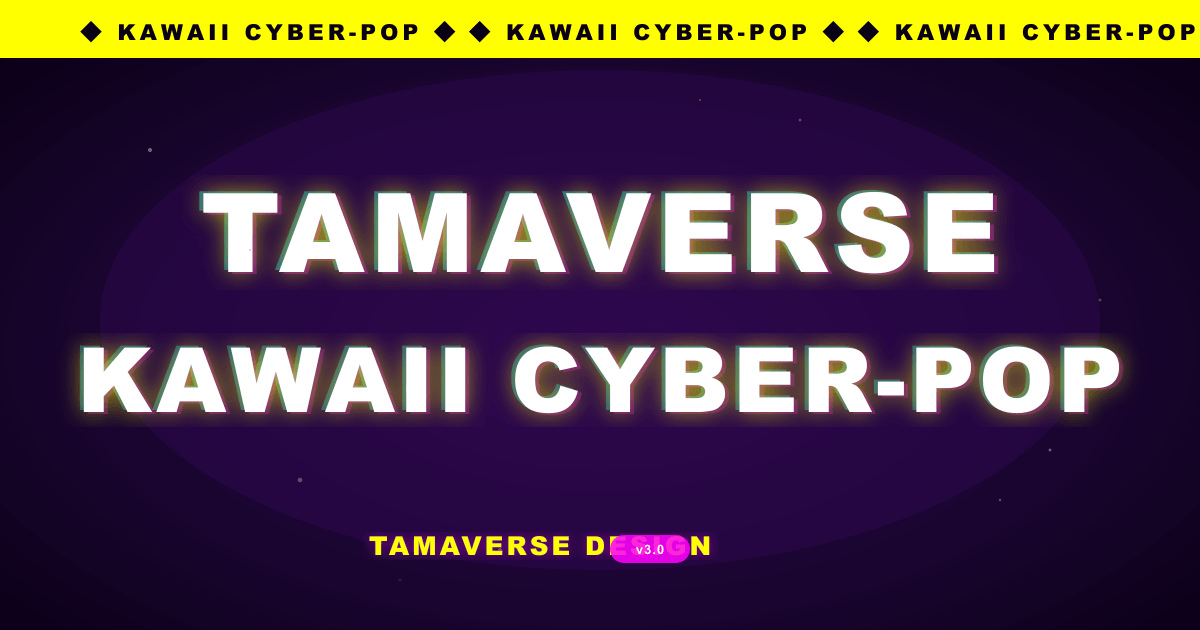
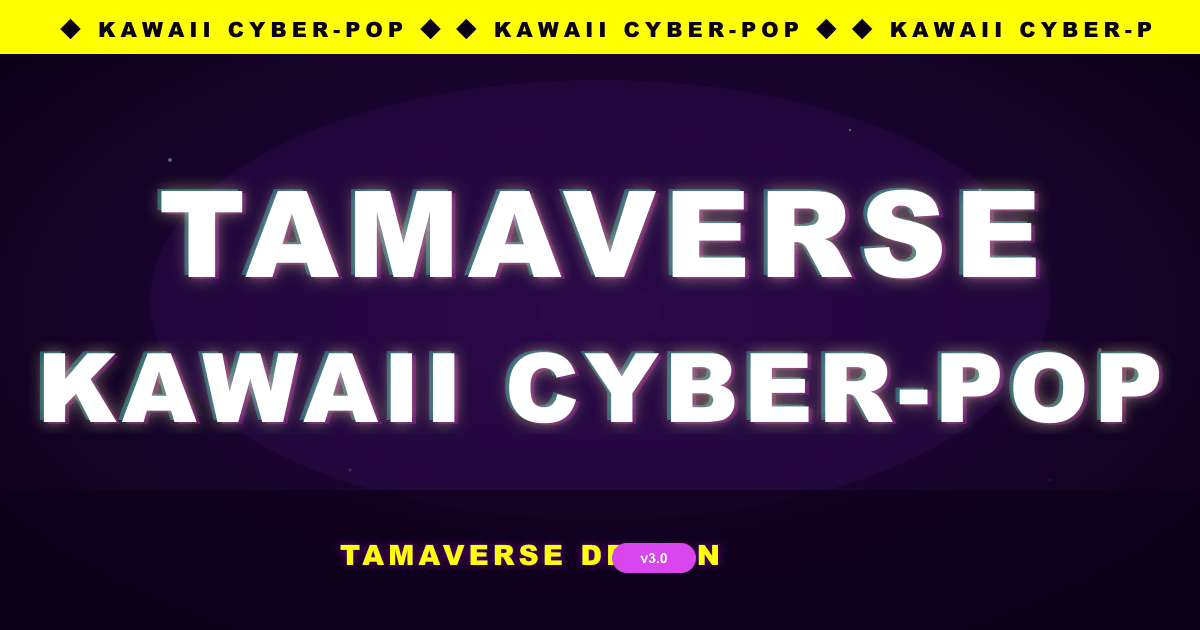
Rename KAWAII to shorter URL, update OG image and links
- tamaverse-kawaii-cyberpop-design-system.html → tamaverse-kawaii-cyberpop.html
- index.html: updated link to new filename
- og:url updated to match new URL
- OG image refined: darker bottom strip, larger title, tighter glow
- Added .gitignore for build scripts and .vercel

diff --git a/tamaverse-kawaii-cyberpop.html b/tamaverse-kawaii-cyberpop.html
@@ -8,7 +8,7 @@
 <meta name="keywords" content="Tamaverse, Kawaii, Cyber-Pop, Design System, Neon, Glassmorphism">
 <meta name="author" content="Tamaverse">
 <meta property="og:type" content="website">
-<meta property="og:url" content="https://tamaverse-design.vercel.app/tamaverse-kawaii-cyberpop-design-system.html">
+<meta property="og:url" content="https://tamaverse-design.vercel.app/tamaverse-kawaii-cyberpop.html">
 <meta property="og:title" content="Tamaverse KAWAII CYBER-POP — Design System">
 <meta property="og:description" content="네온 글로우, 글래스모피즘, 3D 틸트, 마그네틱 버튼. 다크 테마 + 듀얼 테마 지원.">
 <meta property="og:image" content="https://tamaverse-design.vercel.app/assets/og-kawaii.png">

diff --git a/index.html b/index.html
@@ -108,7 +108,7 @@ body{font-family:'Plus Jakarta Sans','Noto Sans KR',system-ui,sans-serif;backgro
       </div>
     </div>
   </a>
-  <a href="tamaverse-kawaii-cyberpop-design-system.html" class="card">
+  <a href="tamaverse-kawaii-cyberpop.html" class="card">
     <div class="card-preview preview-kawaii"><div class="preview-kawaii-text">CYBER-POP</div></div>
     <div class="card-body">
       <div class="card-version">v3.0 — Kawaii Cyber-Pop</div>
